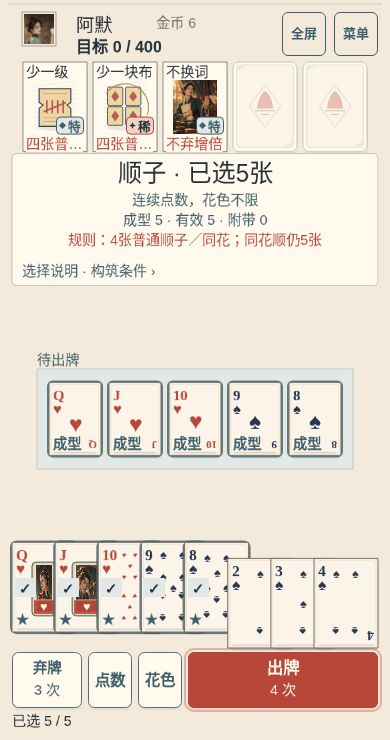
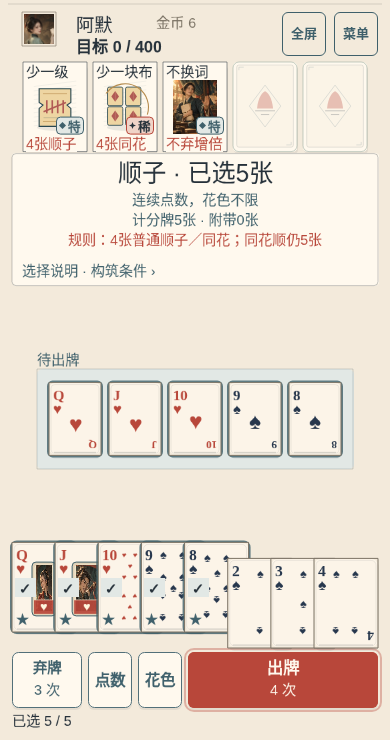
Clarify selection condition labels and leave card indices unobstructed

diff --git a/docs/production/evidence/p08-selection-facts-review-2026-10-03/README.md b/docs/production/evidence/p08-selection-facts-review-2026-10-03/README.md
@@ -2,11 +2,12 @@
 
 [390×740选牌实际静帧](390-selected-straight.png)。本分支从已发布main `5fa9704395c4a1481069daec48b5919349731b77` 建立，仅含此PNG与README；候选源码未提交、仍在原 `dot/d44-layout` 工作树，不是main现场或新素材。
 
[1 lines of base64/hex data omitted]
-- Embedded：C03 / revision5fa9704395c4a1481069daec48b5919349731b77 / modified=true / builtAt 2026-10-03T23:40:20.636Z。
[1 lines of base64/hex data omitted]
-- 明确fixture路线：既有createRun／LeaveShop／EnterStage→合法checkpoint校验→真实菜单导入→原生touch选Q♥、J♥、10♥、9♠、8♠→选择说明→关闭。持有c08/c09/f09为测试配置，不宣称自然购买；这一手成型5／有效5／附带0。
-- 候选改动：共享真实eval／完整持有mods／失效／普通点数压制事实供scorer和UI复用；牌型标题始终可见、静态四牌规则与同花顺仍5张可读；去掉选牌预演数字／链／火；现72短条件复用r2Help、完整持有条件进统一详情。实际出牌计分不改变。
-- 已检查：73项facts/Boss计分相关单测、type与本次build；真实touch选择／详情取消、无预测数字或来源入口／火，完整run/RNG/journal/resources不变。最终全路径／9与14手势／冻结verify:ci尚NOT_RUN；整体方向待父侧独立早评，目标OnePlus／真GPU／听感NOT_RUN。
[1 lines of base64/hex data omitted]
+- Embedded：C03 / revision5fa9704395c4a1481069daec48b5919349731b77 / modified=true / builtAt 2026-10-03T23:49:28.662Z。
[1 lines of base64/hex data omitted]
+- 明确fixture路线：既有createRun／LeaveShop／EnterStage→合法checkpoint校验→真实菜单导入→原生touch选Q♥、J♥、10♥、9♠、8♠→选择说明→关闭。持有c08/c09/f09为测试配置，不宣称自然购买；这一手计分牌5／附带0。
+- 信息方向已获父侧独立通过；原首图可读性未通过。本更新只修三项：c08/c09专用“4张顺子”“4张同花”（均14px／50px），其他条件溢出给完整“条件”入口；五牌去除冲突的底部文字、只描边；正常态“计分牌5张 · 附带0张”，失效与B02独立解释。普通型／同花顺仍5张规则继续常驻。新图整体可读性待父侧复核。
+- 已检查：75项facts/Boss计分／语义安全短条件相关单测、type与本次build；五张预览角标与pip不相交、无额外牌面状态字，实际touch选择／详情取消、无预测数字或来源入口／火、完整run/RNG/journal/resources不变。
+- 最终全路径／9与14手势／冻结verify:ci仍在继续；目标OnePlus／真GPU／听感NOT_RUN，源码未提交main，无新素材。
 
 本图只供早评，不作为整批技术／审美验收完成。后续可见手牌推荐与完整条件家族等待同一主线规格，不在本候选盲扩。
